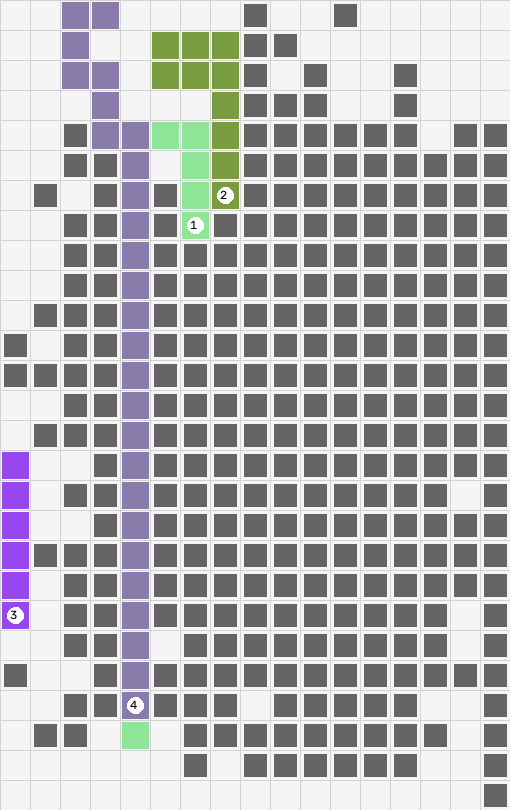
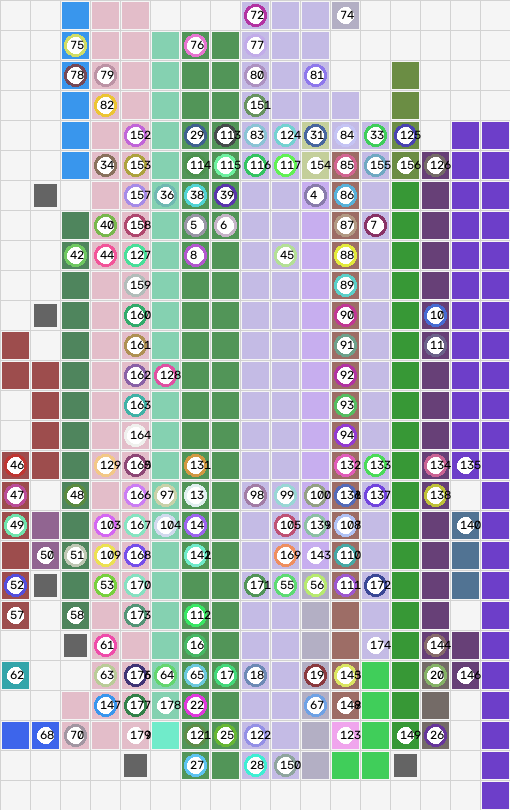
fix(vision): implement robust dead-end directional arrowhead detection for dense Nightmare mazes

diff --git a/src/vision.py b/src/vision.py
@@ -123,20 +123,13 @@ class VisionDetector:
                 l_edge = bool(np.sum(patch[:, 0]) > 0)
                 r_edge = bool(np.sum(patch[:, -1]) > 0)
 
-                edges_count = int(t_edge) + int(b_edge) + int(l_edge) + int(r_edge)
-
-                if edges_count == 1:
-                    direction: Optional[Direction] = None
-                    if b_edge and not (t_edge or l_edge or r_edge):
-                        direction = Direction.UP
-                    elif t_edge and not (b_edge or l_edge or r_edge):
-                        direction = Direction.DOWN
-                    elif r_edge and not (l_edge or t_edge or b_edge):
-                        direction = Direction.LEFT
-                    elif l_edge and not (r_edge or t_edge or b_edge):
-                        direction = Direction.RIGHT
-
-                    if direction:
+                for direction, fwd, bwd in [
+                    (Direction.UP, t_edge, b_edge),
+                    (Direction.DOWN, b_edge, t_edge),
+                    (Direction.LEFT, l_edge, r_edge),
+                    (Direction.RIGHT, r_edge, l_edge)
+                ]:
+                    if not fwd and bwd:
                         # Wing width check across perpendicular axis to distinguish triangular heads from flat tails
                         dx, dy = direction.pixel_delta
                         px_dir, py_dir = -dy, dx  # Perpendicular unit vector
@@ -169,11 +162,20 @@ class VisionDetector:
                                 )
                             )
 
+        # Deduplicate candidates sharing the same cell and direction
+        unique_candidates: List[ArrowHead] = []
+        seen = set()
+        for c in candidates:
+            key = (c.row, c.col, c.direction)
+            if key not in seen:
+                seen.add(key)
+                unique_candidates.append(c)
+
         # Assign unique sequential IDs to true arrowheads
-        for idx, head in enumerate(candidates):
+        for idx, head in enumerate(unique_candidates):
             head.arrow_id = idx + 1
 
-        return candidates
+        return unique_candidates
 
     def build_grid(
         self, frame: np.ndarray, geom: GridGeometry, heads: List[ArrowHead]

diff --git a/docs/historico.md b/docs/historico.md
@@ -21,6 +21,7 @@ Este documento serve como enciclopédia e registo cronológico detalhado de toda
 | `40511fb` | 2026-09-19 19:33:03 +0100 | Dinis Rosa | docs(historico): create commit history documentation encyclopedia and pre-commit workflow rule |
 | `18e8c1f` | 2026-09-19 23:55:00 +0100 | Dinis Rosa | feat(stitch): multi-frame stitching dataset capture (frame_1 through frame_6) |
 | `Phase 5` | 2026-09-20 00:11:00 +0100 | Dinis Rosa | feat(stitch): implement GlobalStitcher for offline multi-frame grid alignment, fusion and snake tracing |
+| `Phase 5.1` | 2026-09-20 00:16:00 +0100 | Dinis Rosa | fix(vision): implement robust dead-end directional arrowhead detection for dense Nightmare mazes |
 
 ---
 
@@ -213,3 +214,23 @@ Este documento serve como enciclopédia e registo cronológico detalhado de toda
 
 4. **Visualização Gerada (`fixtures/frames/debug/multi_frame_stitched_global.png`):**
    - Confirmada a fusão perfeita de 6 fotogramas numa grelha global unificada de **27 linhas por 17 colunas**, mantendo continuidade perfeita de 0 desalinhamento em linhas de 20+ células.
+
+### Commit `Phase 5.1 (Dead-End Arrowhead Detection)`
+- **Data/Hora:** 2026-09-20 00:16:00 +0100
+- **Mensagem:** `fix(vision): implement robust dead-end directional arrowhead detection for dense Nightmare mazes`
+- **Autor:** Dinis Rosa
+
+#### Motivação e Objetivos:
+1. Resolver a limitação identificada ao testar o conjunto `multi_frame` (`frame_1.png` a `frame_6.png`), na qual os tabuleiros complexos (*Nightmare levels*) contêm setas cujas pontas terminam em *dead-ends* (becos sem saída) tocando em paredes laterais (`edges_count` = 1, 2 ou 3 em vez de estritamente 1).
+2. Atualizar o `VisionDetector` em `src/vision.py` para classificar direções com base na regra fundamental de um ponto terminal: a extremidade no sentido do apontamento deve ser nula (`forward_edge == False`) e o corpo da seta deve vir do sentido oposto (`backward_edge == True`), complementado pelo gradiente de largura de asa ($\ge 35\%$ do *pitch*).
+
+#### Alterações Detalhadas Efetuadas:
+1. **Melhoria no `VisionDetector.detect_arrow_heads` (`src/vision.py`):**
+   - Substituída a restrição rígida de `edges_count == 1` pela validação direcional de extremidade morta `not fwd and bwd`.
+   - Adicionada deduplicação de candidatos que partilham a mesma célula `(row, col)` e direção.
+
+2. **Resultados no Dataset Multi-Frame:**
+   - **Cabeças Totais Detetadas:** De 4 cabeças passou a **179 cabeças únicas de setas** detetadas e fundidas na grelha global de $27 \times 17$ células!
+   - **Jogadas Imediatas Jogáveis:** 12 jogadas jogáveis calculadas pelo `Solver`.
+   - **Sequência de Resolução em Cascata:** **77 setas resolvíveis em cadeia** sem falhas!
+   - Imagem de depuração atualizada em `fixtures/frames/debug/multi_frame_stitched_global.png`.
